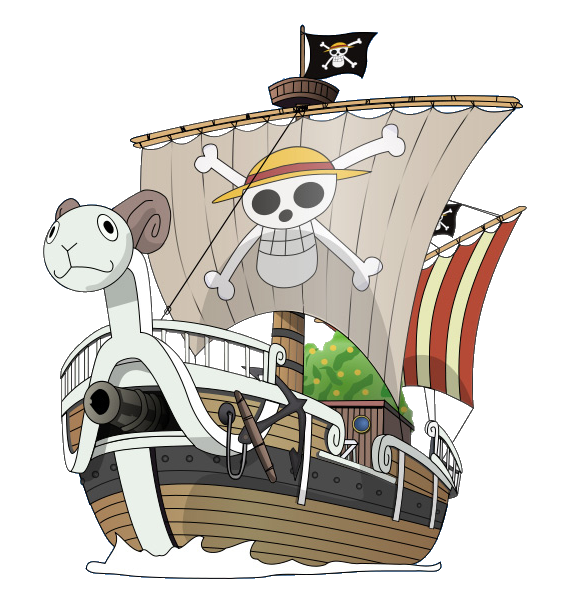
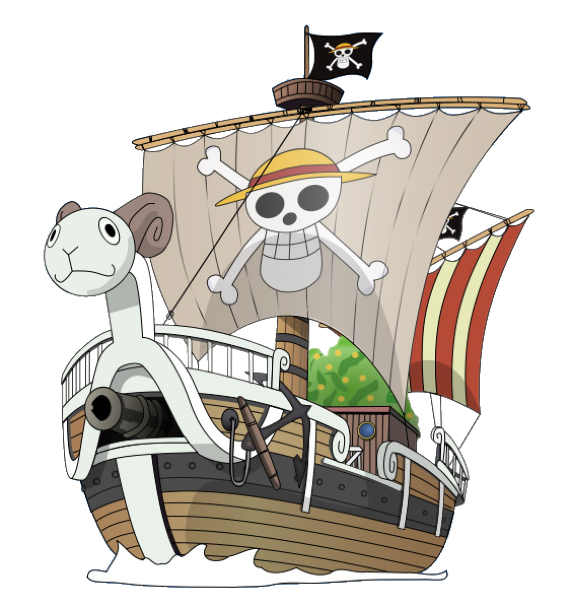
I made a hero Component

diff --git a/The Ultimate HTML5 & CSS3 Part3/20Hero.html b/The Ultimate HTML5 & CSS3 Part3/20Hero.html
@@ -42,7 +42,32 @@
 
       Classes should start with Generic classes, then end with Specific classes
       to override. <br />
+
+      <br />
+      <br />
+      ++ Serving Correctly Sized Images ++ <br />
+      // Optimizing Images // <br />
+      <br />
+      Serve Image at a dedicated size for the element you're putting it in.
+      <br />
+      Ex: The component below is hardcoded to be 1140px wide. <br />
+      The image will take up 50% of that - (1col of our 2col grid) <br />
+      As such, the largest our image will be, is 570px wide <br />
+      Which means there is no sence serving a 4k image. <br />
+      <br />
+      What about Mobile? <br />
+      Mobile resolution is less than 570px; So size is fine - NOT! <br />
+      To cater to Mobile's pixel dense screens - we need to double the size!
+      <br />
+      Serve 1 image@ 570px wide - image <br />
+      Serve 1 image@ 1140px wide - image@2x <br />
+      <br />
+      One step further - Make the Pngs into Webps! <br />
+      Img 1.png (363 kb) >> Img 1.webp (42kb) <br />
+      Img 1@x2.png (1138kb) >> Img 1@2x.webp (94kb) <br />
+      Wowee, thats a mega reduction!!!
     </p>
+    <br />
 
     <br /><br />
 
@@ -53,7 +78,21 @@
           <p class="hero__tagline">Now hiring! Great pay! Lots of Booty!</p>
           <a class="btn btn--accent btn--stretched" href="#">Hire Me! </a>
         </header>
-        <img class="hero__image" src="/Project/images/ship.png" alt="" />
+        <picture>
+          <source
+            type="image/webp"
+            srcset="
+              /Project/images/ship.webp    1x,
+              /Project/images/ship@2x.webp 2x
+            " />
+          <source
+            type="image/png"
+            srcset="
+              /Project/images/ship.png    1x,
+              /Project/images/ship@2x.png 2x
+            " />
+          <img class="hero__image" src="/" alt=""
+        /></picture>
       </div>
     </section>
 

diff --git a/The Ultimate HTML5 & CSS3 Part3/Project/components/heroOptimized.html b/The Ultimate HTML5 & CSS3 Part3/Project/components/heroOptimized.html
@@ -1,0 +1,21 @@
+<section class="block block--dark block--skewed-left hero">
+  <div class="container grid grid--cols-2">
+    <header class="block__header hero__content">
+      <h2 class="block__heading">Pirate Ship Enterprise</h2>
+      <p class="hero__tagline">Now hiring! Great pay! Lots of Booty!</p>
+      <a class="btn btn--accent btn--stretched" href="#">Hire Me! </a>
+    </header>
+    <picture>
+      <source
+        type="image/webp"
+        srcset="
+          /Project/images/ship.webp    1x,
+          /Project/images/ship@2x.webp 2x
+        " />
+      <source
+        type="image/png"
+        srcset="/Project/images/ship.png 1x, /Project/images/ship@2x.png 2x" />
+      <img class="hero__image" src="/" alt=""
+    /></picture>
+  </div>
+</section>
